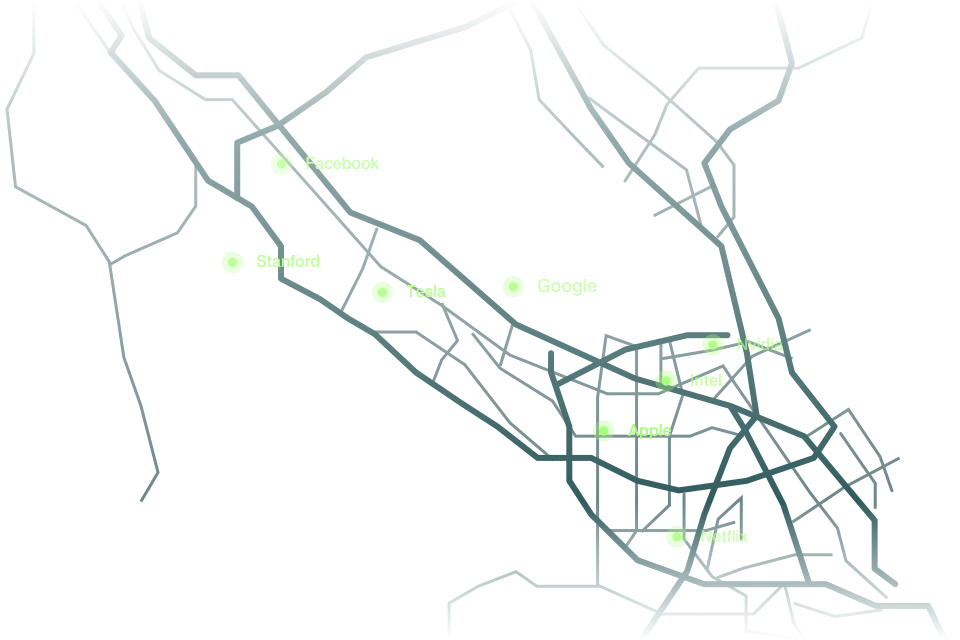
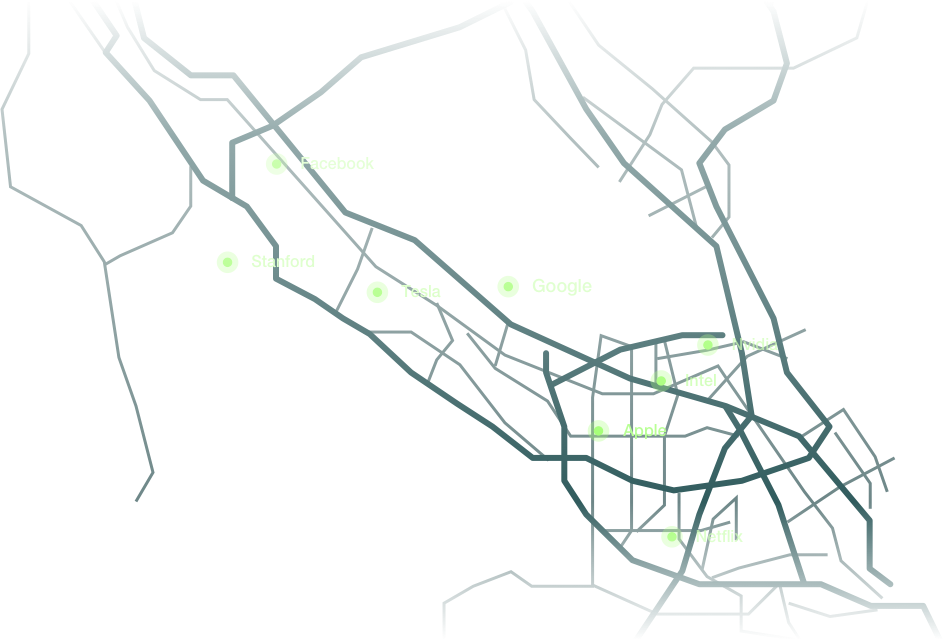
更换地图上的icon_logo

diff --git a/assets/css/main.css b/assets/css/main.css
@@ -387,7 +387,7 @@ header .links {
     right: 15%;
     height: 640px;
     width: 960px;
-    background: url("http://ovn188pj2.bkt.gdipper.com/pic_map.png") no-repeat;
+    background: url("../imgs/pic_map@2x.png") no-repeat;
     background-size: cover;
 }
 
